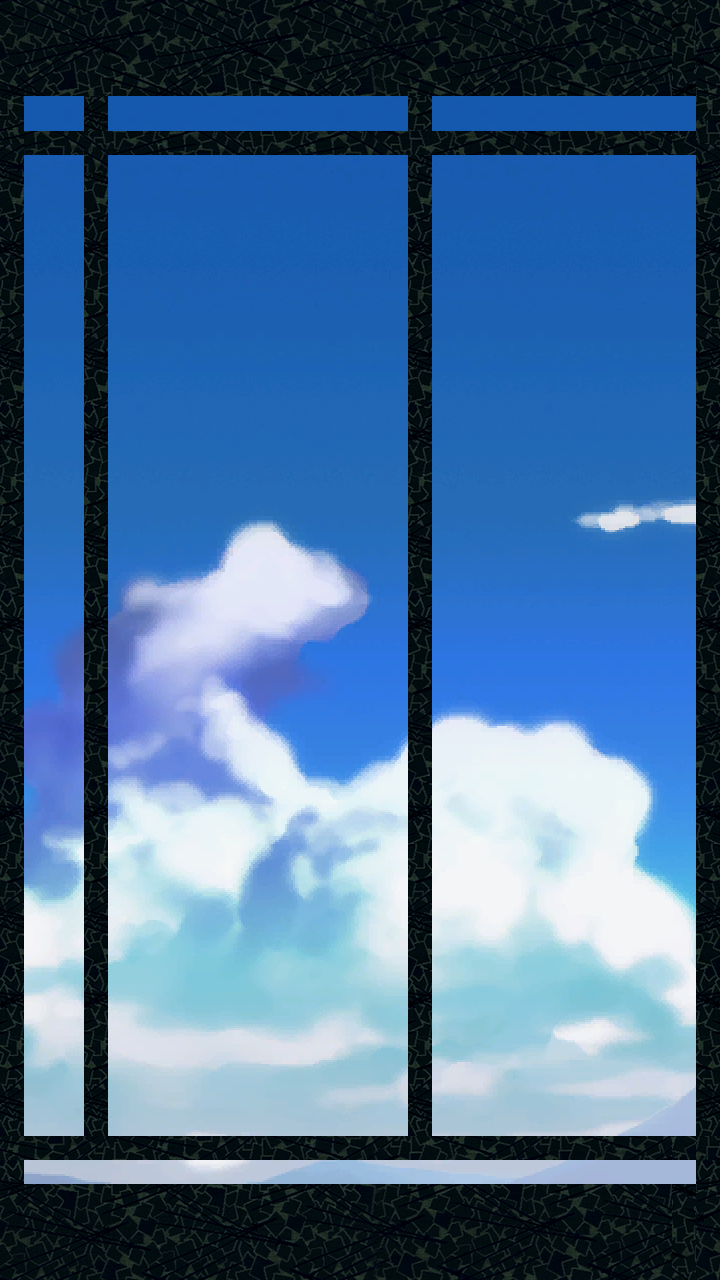
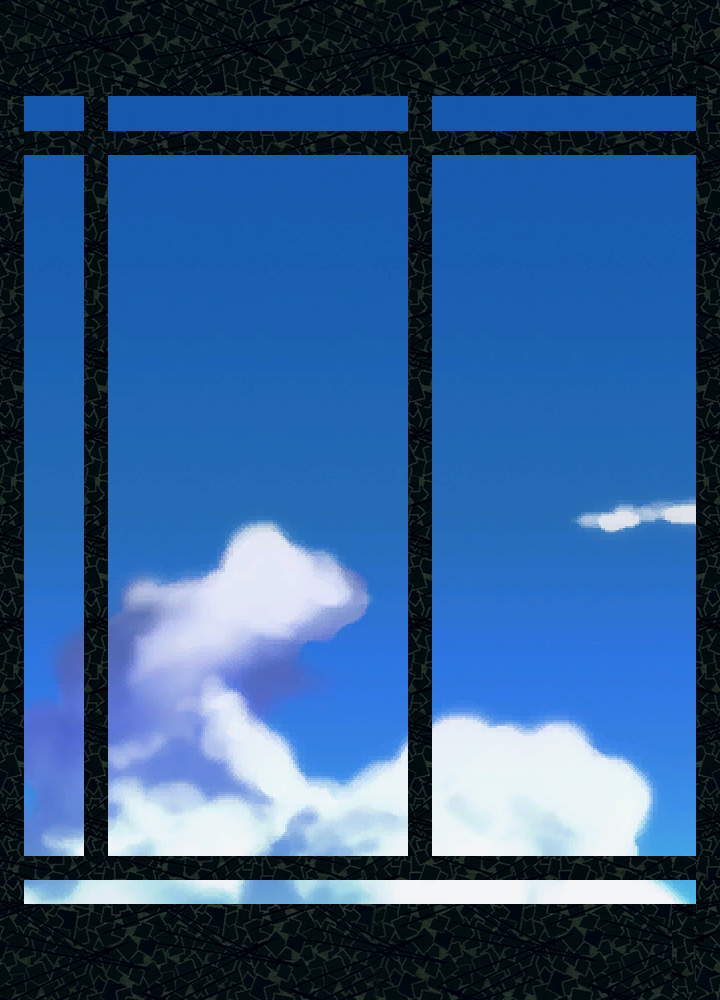
more leaderboards

diff --git a/Times.js b/Times.js
@@ -8,6 +8,9 @@ function insertTime(name, time) {
         dataType: 'json',
         success: function(data) {
             console.log(data)
+            if (data['status'] == 'success') {
+                getTimes()
+            }
         },
         error: function(data) {
             console.log(data)
@@ -16,39 +19,75 @@ function insertTime(name, time) {
 }
 
 function getTimes() {
-    var rowHeight = 34
+    var rowHeight = 40
     var rowNumber = 0
+    var firstRow = 155
     var charWidth = 32
-    var col0End = 2 * charWidth
-    var col1End = 10 * charWidth + col0End
-    var col2End = 10 * charWidth + col1End
+    var charHeight = 32
+    var col0End = 84
+    var col1End = 408
+    var col2End = 696
     var colPadding = 10
+    var letterOffset = 49 // A is sprite 49
+    var lettersPerRow = 16
     $.ajax({
         type: 'post',
         url: 'getTimes.php',
         dataType: 'json',
         success: function(data) {
-            leaderContext.fillStyle = "#000000"
             leaderContext.clearRect(0, 0, leaderCanvas.width, leaderCanvas.height)
-            // leaderContext.fillRect(0, 0, leaderCanvas.width, leaderCanvas.height)
+            leaderContext.drawImage(borderSheet, 0, 0)
             $.each(data, function(k, v) {
-                console.log("name: " + v['name'] + " time: " + v['time'])
-                var name = v['name']
+                var name = v['name'].toLowerCase()
+                var akey = 'a'.charCodeAt(0)
+                var zkey = 'z'.charCodeAt(0)
+                var charOffset = 0
+                
+                var place = k + 1
+                while (place > 0) {
+                    var digit = Math.floor(place % 10)
+                    place = Math.floor(place / 10)
+                    charOffset += charWidth
+                    leaderContext.drawImage(titleNumbersSheet, charWidth * digit, 0, charWidth, charHeight, col0End - charOffset, k * rowHeight + firstRow, charWidth, charHeight)
+                }
+                
+                charOffset = 0
+
+                while (name.length > 0) {
+                    var c = name.substr(-1)
+                    name = name.slice(0, -1)
+                    var ckey = c.charCodeAt(0)
+                    if (akey <= ckey <= zkey) {
+                        var letterNumber = ckey - akey + letterOffset
+                        var letterRow = Math.floor(letterNumber / lettersPerRow)
+                        var letterColumn = Math.floor(letterNumber % lettersPerRow)
+                        charOffset += charWidth
+                        var sx = letterColumn * charWidth
+                        var sy = letterRow * charWidth
+                        var sw = charWidth
+                        var sh = charWidth
+                        var dx = col1End - charOffset
+                        var dy = k * rowHeight + firstRow
+                        var dw = charWidth
+                        var dh = charHeight
+                        leaderContext.drawImage(lettersSheet, sx, sy, sw, sh, dx, dy, dw, dh)
+                    }
+                }
+
                 var time = v['time']
-                var scoreOffset = 0
+                charOffset = 0
                 while (time > 0) {
                     var digit = Math.floor(time % 10)
                     time = Math.floor(time / 10)
-                    scoreOffset +=charWidth
-                    leaderContext.drawImage(titleNumbersSheet, charWidth * digit, 0, charWidth, 34, col2End - scoreOffset, k * 34, charWidth, 34)
+                    charOffset +=charWidth
+                    leaderContext.drawImage(titleNumbersSheet, charWidth * digit, 0, charWidth, charHeight, col2End - charOffset, k * rowHeight + firstRow, charWidth, charHeight)
                 }
             })
         },
         error: function(data) {
             console.log(data)
-            leaderContext.fillStyle = "#000000"
             leaderContext.clearRect(0, 0, leaderCanvas.width, leaderCanvas.height)
-            leaderContext.fillRect(0, 0, leaderCanvas.width, leaderCanvas.height)
+            leaderContext.drawImage(borderSheet, 0, 0)
         }
     })
 }

diff --git a/main.js b/main.js
@@ -18,12 +18,15 @@ const THREEPNG = "img/3.png"
 const FOURPNG = "img/4.png"
 const ENEMYPNG = "img/enemy.png"
 const TITLENUMBERSPNG = "img/numbers.png"
+const LETTERSPNG = "img/WhiteNumbersandLetters.png"
+const BORDERPNG = "img/border.png"
 
 const LASER = "sfx/Laser2.wav"
 const COREHIT = "sfx/CoreHit3.wav"
 const SPELLCARD = "sfx/053.wav" // better than SPELLCARD.wav
 const PLAYERDEATH = "sfx/DEAD.wav" // or 071
 const MENUCHIME = "sfx/048.wav"
+const TITLEBGM = "bgm/shipselect2.ogg"
 
 const DELAY = 1
 const WIDTH = 800
@@ -99,6 +102,12 @@ enemyText.src = ENEMYPNG
 var titleNumbersSheet = new Image(320, 34)
 titleNumbersSheet.src = TITLENUMBERSPNG
 
+var lettersSheet = new Image(512, 224)
+lettersSheet.src = LETTERSPNG
+
+var borderSheet = new Image(720, 1000)
+borderSheet.src = BORDERPNG
+
 var bgSheet = new Image(800, 2560)
 bgSheet.src = BGPNG
 var star1Sheet = new Image(800, 600)
@@ -119,6 +128,10 @@ bulletSheet.src = BULLETPNG
 var bossSheet = new Image(76, 82)
 bossSheet.src = BOSSPNG
 
+var titlebgm = new Audio(TITLEBGM)
+titlebgm.onended = function() {
+    titlebgm.play()
+}
 var bgm = new Audio("bgm/alien.mp3")
 var menuchimesfx = new Audio(MENUCHIME)
 menuchimesfx.onended = function() {
@@ -289,6 +302,8 @@ onload = function() {
 
     enemy = new Boss()
     enemy.position = new Vector((WIDTH - hitBoxes[enemy.hitboxType].width) / 2, 50)
+
+    titlebgm.play()
     mainTimer = setInterval(mainLoop, 1)
 
     getTimes()

diff --git a/GameObject.js b/GameObject.js
@@ -149,6 +149,7 @@ class Player extends GameObject {
                 this.currentGunCooldown = this.gunCooldown
             }
         }
+        /*
         if (keys[x]) {
             if (this.currentBombCooldown <= 0 && this.bombs > 0) {
                 var sfx = new Audio(SPELLCARD)
@@ -158,6 +159,7 @@ class Player extends GameObject {
                 this.bombs--
             }
         }
+        */
         moveVector = moveVector.normalize()
         this.position.x += moveVector.x * speed * deltaSeconds
         this.position.y += moveVector.y * speed * deltaSeconds

diff --git a/GameState.js b/GameState.js
@@ -14,6 +14,7 @@ class TitleScreenGameState extends GameState {
     update() {
         uiContext.clearRect(0, 0, playerCanvas.width, playerCanvas.height)
         if (keys[ENTER]) {
+            titlebgm.pause()
             menuchimesfx.play()
             enemy.health = 0
             currentGameState = bossInitializationState

diff --git a/insertTime.php b/insertTime.php
@@ -1,6 +1,6 @@
 <?php
 
-$name = strip_tags(trim($_POST['name']));
+$name = strtolower(strip_tags(trim($_POST['name'])));
 $time = strip_tags(trim($_POST['time']));
 
 $host = 'localhost';
@@ -16,3 +16,8 @@ VALUES ('$name', $time)
 ";
 
 mysqli_query($conn, $sql) or die(mysqli_error($conn));
+
+$result = array();
+$result['status'] = 'success';
+
+echo json_encode($result);
